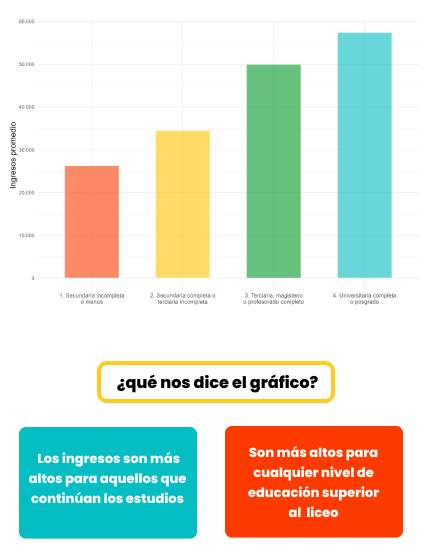
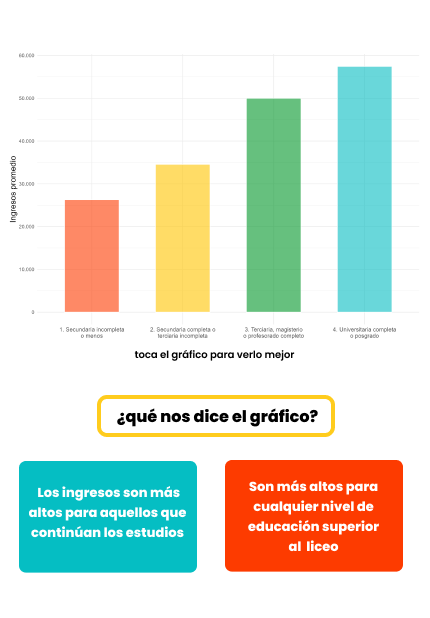
arreglo graficas

diff --git a/css/index.css b/css/index.css
@@ -328,25 +328,82 @@ header{
     display: flex;
     justify-content: center;
 }
-.imgCarruselUno{
+.imgCarruselUnoGraficas{
     width: 60vw;
     height: auto;
     margin-top: 3%;
-    transition: transform 0.3s ease;
     display: block;
 }
-.imgCarruselUno:hover{
-    transform: scale(1.3);
+.imgCarruselUnoIngresos{
+    width: 60vw;
+    height: auto;
+    margin-top: 3%;
+    display: block;
+}
+.imgCarruselUnoOcupaciones{
+    width: 60vw;
+    height: auto;
+    margin-top: 3%;
+    display: block;
 }
 #buttonCarousel{
     color: black;
 }
-.imgCarruselDos {
+.imgCarruselDosGraficas {
     display: none;
   }
+
+.imgCarruselDosIngresos {
+    display: none;
+}
+
+.imgCarruselDosOcupaciones {
+    display: none;
+}
+
 .titulito{
     display: none;
 }
+.modal {
+    position: fixed;
+    top: 0;
+    left: 0;
+    width: 100%;
+    height: 100%;
+    background-color: rgba(0, 0, 0, 0.8);
+    display: flex;
+    justify-content: center;
+    align-items: center;
+    z-index: 9999;
+  }
+  
+  .modal-content {
+    position: relative;
+    background-color: white;
+    padding: 20px;
+    text-align: center;
+    width: 70vw;
+    height: 80vh;
+    overflow: hidden;
+    margin: auto;
+  }
+  
+  .modal-content img {
+    width: 100%;
+    height: auto;
+    max-height: 70vh;
+    object-fit: contain; 
+  }
+  
+  .close-btn {
+    position: absolute;
+    top: 10px;
+    right: 10px;
+    font-size: 24px;
+    color: white;
+    cursor: pointer;
+  }
+  
 
 
 #estudiarRinde{
@@ -845,15 +902,23 @@ header{
         justify-content: center;
         align-items: center;
     }
-    .imgCarruselDos{
+    .imgCarruselDosGraficas{
         width: 80vw;
         height: auto;
         margin-top: 3%;
-        transition: transform 0.3s ease;
         display: block;
     }
-    .imgCarruselDos:hover{
-        transform: scale(1.3);
+    .imgCarruselDosIngresos{
+        width: 80vw;
+        height: auto;
+        margin-top: 3%;
+        display: block;
+    }
+    .imgCarruselDosOcupaciones{
+        width: 80vw;
+        height: auto;
+        margin-top: 3%;
+        display: block;
     }
     #buttonCarousel{
         color: black;
@@ -866,6 +931,44 @@ header{
         display: block;
         height: auto;
     }
+    .modal {
+        position: fixed;
+        top: 0;
+        left: 0;
+        width: 100%;
+        height: 100%;
+        background-color: rgba(0, 0, 0, 0.8);
+        display: flex;
+        justify-content: center;
+        align-items: center;
+        z-index: 9999;
+      }
+      
+      .modal-content {
+        position: relative;
+        background-color: white;
+        padding: 20px;
+        text-align: center;
+        width: 80vw;
+        height: fit-content;
+        overflow: hidden;
+        margin: auto;
+      }
+      
+      .modal-content img {
+        width: 100%;
+        height: auto;
+        object-fit: contain; 
+      }
+      
+      .close-btn {
+        position: absolute;
+        top: 10px;
+        right: 10px;
+        font-size: 24px;
+        color: white;
+        cursor: pointer;
+      }
 
 
 

diff --git a/index.html b/index.html
@@ -142,24 +142,24 @@
                 <div class="carousel-inner">
                   <div class="carousel-item active" data-bs-interval="10000">
                     <div class="divCarrusel">
-                      <img title="grafica" src="./assets/graficas.png" class="imgCarruselUno" alt="img">
+                      <img title="grafica" src="./assets/graficas.png" class="imgCarruselUnoGraficas" alt="img">
                       <img src="./assets/titulitoDesempleo.png" class="titulito" alt="img">
-                      <img title="grafica" src="./assets/graficasMobile.png" class="imgCarruselDos" alt="img">
+                      <img title="grafica" src="./assets/graficasMobile.png" class="imgCarruselDosGraficas" alt="img">
 
                     </div>
                   </div>
                   <div class="carousel-item" data-bs-interval="2000">
                     <div class="divCarrusel">
-                      <img title="grafica" src="./assets/ocupacionesGrafica.png" class="imgCarruselUno" alt="img">
+                      <img title="grafica" src="./assets/ocupacionesGrafica.png" class="imgCarruselUnoOcupaciones" alt="img">
                       <img src="./assets/titulitoDesempleo.png" class="titulito" alt="img">
-                      <img title="grafica" src="./assets/ocupacionesMobile.png" class="imgCarruselDos" alt="img">
+                      <img title="grafica" src="./assets/ocupacionesMobile.png" class="imgCarruselDosOcupaciones" alt="img">
                     </div>
                   </div>
                   <div class="carousel-item">
                     <div class="divCarrusel">
-                      <img title="grafica" src="./assets/ingresosGrafica.png" class="imgCarruselUno" alt="img">
+                      <img title="grafica" src="./assets/ingresosGrafica.png" class="imgCarruselUnoIngresos" alt="img">
                       <img src="./assets/titulitoIngresos.png" class="titulito" alt="img">
-                      <img title="grafica" src="./assets/ingresosMobile.png" class="imgCarruselDos" alt="img">
+                      <img title="grafica" src="./assets/ingresosMobile.png" class="imgCarruselDosIngresos" alt="img">
                     </div>
                   </div>
                 </div>
@@ -173,6 +173,12 @@
                 </button>
               </div>
         </div>
+        <div id="imageModal" class="modal" style="display: none;">
+          <div class="modal-content">
+              <span class="close-btn">&times;</span>
+              <img id="modalImage" src="" alt="imagen ampliada">
+          </div>
+      </div>
         <div id="estudiarRinde">
           <div class="divERTarjetas">
             <img title="tarjeta" class="eRTarjetaUno hoverImage" src="./assets/eRTarjetaUno.png" data-hover="assets/eRTarjetaUnoVuelta.png" alt="img">

diff --git a/js/index.js b/js/index.js
@@ -1,19 +1,41 @@
-// Selecciona todas las imágenes con la clase "hoverImage"
-const images = document.querySelectorAll(".hoverImage");
-
-// Recorre cada imagen y agrega los eventos
-images.forEach(image => {
-    // Guarda la ruta original y la de hover en variables
-    const originalImage = image.src;
-    const hoverImage = image.getAttribute("data-hover");
-
-    // Cambiar la imagen al pasar el mouse
-    image.addEventListener("mouseover", () => {
-        image.src = hoverImage;
+document.addEventListener("DOMContentLoaded", () => {
+    const modal = document.getElementById("imageModal");
+    const modalImage = document.getElementById("modalImage");
+    const closeModal = document.querySelector(".close-btn");
+  
+    // Mapeo de clases a las imágenes que deben mostrarse
+    const imageMap = {
+      imgCarruselUnoGraficas: "./assets/grafica.png",
+      imgCarruselDosGraficas: "./assets/grafica.png",
+      imgCarruselUnoOcupaciones: "./assets/graficaOcupaciones.png",
+      imgCarruselDosOcupaciones: "./assets/graficaOcupaciones.png",
+      imgCarruselUnoIngresos: "./assets/graficaIngresos.png",
+      imgCarruselDosIngresos: "./assets/graficaIngresos.png",
+    };
+  
+    // Evento para abrir el modal
+    document.querySelectorAll(".imgCarruselUnoGraficas, .imgCarruselDosGraficas, .imgCarruselUnoOcupaciones, .imgCarruselDosOcupaciones, .imgCarruselUnoIngresos, .imgCarruselDosIngresos").forEach(img => {
+      img.addEventListener("click", () => {
+        const imagePath = imageMap[img.classList[0]];
+        if (imagePath) {
+          modalImage.src = imagePath;
+          modal.style.display = "flex";
+        }
+      });
     });
-
-    // Volver a la imagen original cuando se quita el mouse
-    image.addEventListener("mouseout", () => {
-        image.src = originalImage;
+  
+    // Evento para cerrar el modal
+    closeModal.addEventListener("click", () => {
+      modal.style.display = "none";
+      modalImage.src = "";
     });
-});
+  
+    // Cerrar el modal al hacer clic fuera del contenido
+    modal.addEventListener("click", (e) => {
+      if (e.target === modal) {
+        modal.style.display = "none";
+        modalImage.src = "";
+      }
+    });
+  });
+  
